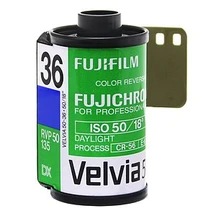
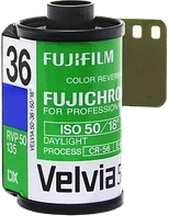
fix(gear): remove white background from 8 new film canisters for transparent RGBA integration

diff --git a/sw.js b/sw.js
@@ -1,4 +1,4 @@
-const CACHE_NAME = 'tees-lab-shell-v217';
+const CACHE_NAME = 'tees-lab-shell-v218';
 const CORE_FILES = [
   './', './index.html', './manifest.json', './logo.jpg', './version.json',
   './assets/samples/coffee.jpg',
